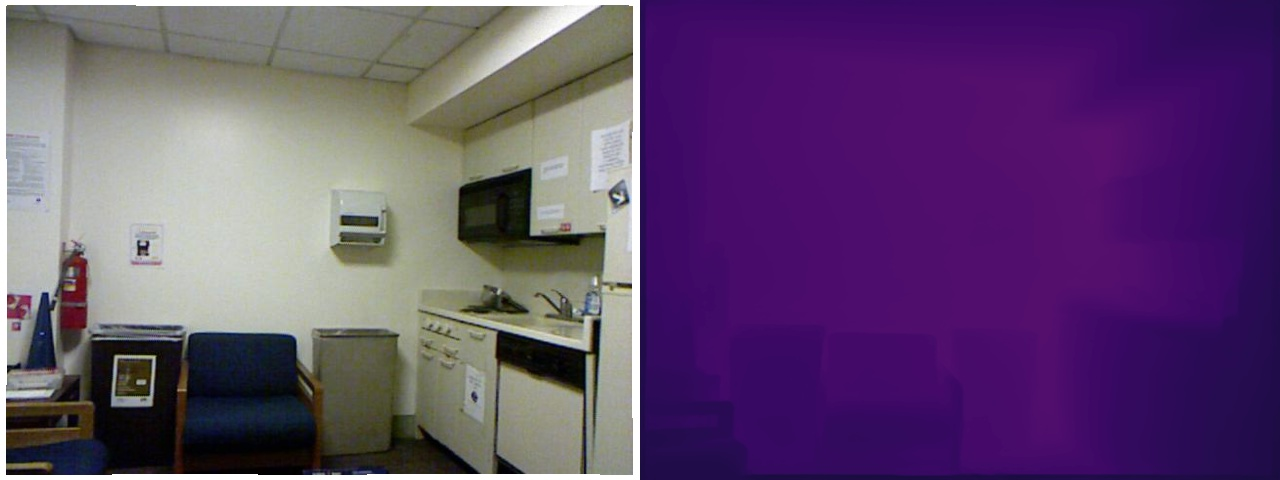
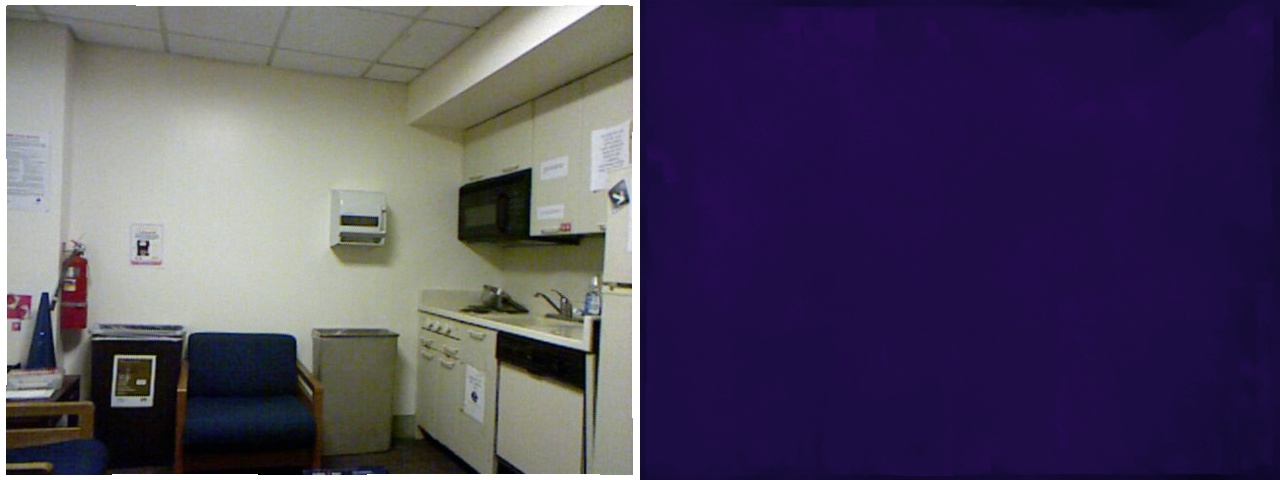
docs：记录S100整型八位模型百张子集实测结果

diff --git a/rdk_models/navigation/single_camera_depth/depth_anything_v2_metric_hypersim_vits/README.md b/rdk_models/navigation/single_camera_depth/depth_anything_v2_metric_hypersim_vits/README.md
@@ -13,7 +13,7 @@
 与 MTK 目录下 depth_anything_v2_small 的相对深度版本分开维护,不得复用其 DA-2K 历史结果作为米制深度评价.
 校准使用 NYU Depth V2 标准训练划分中 seed=17 选取的 100 张图像,正式评价使用互斥的标准测试划分 654 张.使用米制真值、固定裁剪与有效深度范围,不进行逐图尺度对齐,契约见 [模型卡](model_card.md).
 
-当前交付采用 INT8 PTQ,使用 NYU train 固定 100 张校准.正在重新量化编译并补齐 NYU test 固定 100 张子集验证,不得用旧版本示例或指标作为本次 INT8 结果.公开输入输出仍为 FP32,不代表模型内部采用浮点计算.
+当前 HBM 已采用 INT8 PTQ 并完成 100 张 NYU test 子集验证，文件大小为 57,961,064 字节。公开输入输出均为 FP32。
 
 ## 单张 RGB 图片推理
 
@@ -105,7 +105,20 @@ bash rdk_models/navigation/single_camera_depth/depth_anything_v2_metric_hypersim
 
 ## 当前子集结果
 
-INT8 的 100 张同协议验证尚未完成,本段在实际运行后更新.不保留旧量化版本的三样本成绩作为当前结果.
+固定 100 张 NYU test 子集实测见 [summary_test.json](results/summary_test.json)。
+
+| 指标 | ONNX | INT8 HBM |
+| --- | ---: | ---: |
+| abs_rel | 0.230208 | 0.324114 |
+| rmse_m | 0.636759 | 1.111156 |
+| log10 | 0.086792 | 0.155516 |
+| delta1 | 0.629630 | 0.381785 |
+| delta2 | 0.948184 | 0.682271 |
+| delta3 | 0.990925 | 0.863994 |
+
+INT8 子集的 δ1 下降 24.78 个百分点，RMSE 增加 0.474 米。
+
+![NYU 1 的 INT8 HBM 深度示例](examples/output/sample_0001_depth.jpg)
 
 ## NAS 交付文件与板端目录
 

diff --git a/rdk_models/navigation/single_camera_depth/depth_anything_v2_metric_hypersim_vits/model_card.md b/rdk_models/navigation/single_camera_depth/depth_anything_v2_metric_hypersim_vits/model_card.md
@@ -12,4 +12,4 @@
 - 指标: AbsRel、RMSE(米)、log10、delta1/2/3;浮点 ONNX 与 BPU 使用相同预后处理和样本.
 - 性能: Python Runtime 同步调用与端到端耗时分别记录;前者含绑定开销,不等于纯 BPU 设备耗时.
 - 子集评价: NYU test 中固定间隔选择 100 张,保留三个示例,同协议比较 ONNX/HBM,发布 results/summary_test.json.仅对三个示例进行原始输出数值比较.
-- 当前证据: ONNX IR9/opset17 导出及 CPU 单图通路已验证;本次 INT8 编译与100张板端子集验证进行中,尚未发布新指标.不复用旧版本指标.已有 NAS 权重的官方发布一致性仍待核实.
+- 当前证据: ONNX IR9/opset17 导出及 CPU 单图通路已验证;INT8 HBM 已完成 100 张板端子集验证,结果见 results/summary_test.json.已有 NAS 权重的官方发布一致性仍待核实.

diff --git a/rdk_models/README.md b/rdk_models/README.md
@@ -5,7 +5,7 @@
 
 | 模型 | 平台 | 状态 |
 | --- | --- | --- |
-| [Depth Anything V2 Metric Hypersim ViT-S](navigation/single_camera_depth/depth_anything_v2_metric_hypersim_vits/README.md) | S100 / nash-e | ONNX 单图已验证;INT8 量化编译与100张同协议子集验证进行中 |
+| [Depth Anything V2 Metric Hypersim ViT-S](navigation/single_camera_depth/depth_anything_v2_metric_hypersim_vits/README.md) | S100 / nash-e | ONNX 单图已验证;INT8 已完成100张同协议子集验证，δ1 下降24.78个百分点 |
 
 每模型只提供 deploy/compile.sh 与 deploy/evaluate.sh 两个主要入口.文件存在不代表已通过编译或板端验证.
 compile 进行转换、量化、编译、部署、固定子集任务精度与少量输出数值检查并保存示例;evaluate 独立使用已有模型完成精度、性能和进程峰值 RSS.
